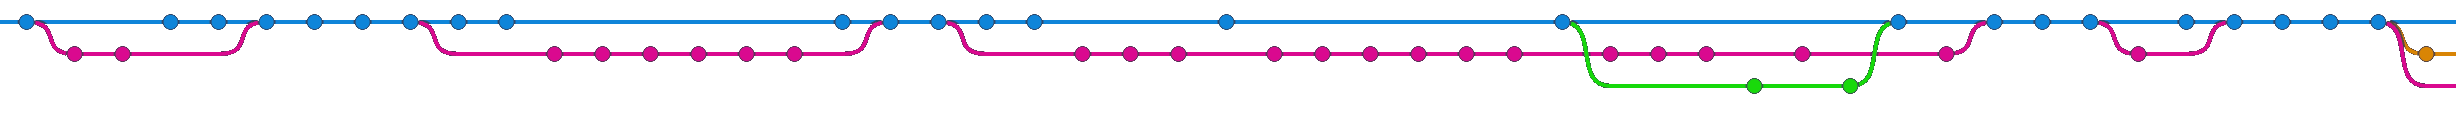
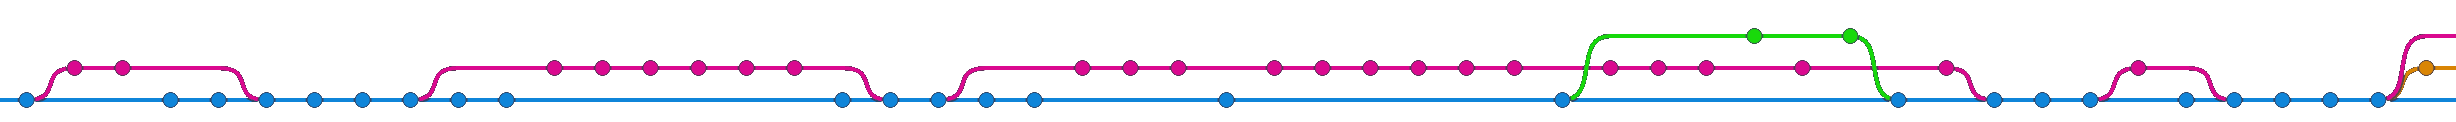
v0.32.1 - mirrored boundaries

Changed region(s): [[0.0, 0.123, 1.0, 0.8852], [0.0, 0.3689, 0.1238, 0.6148], [0.8355, 0.3934, 0.8974, 0.6148]]

diff --git a/CHANGELOG.md b/CHANGELOG.md
@@ -1,5 +1,9 @@
 # CHANGELOG minishell by nburchha & fschuber
 
+### v0.32.1 - 02.05.24 - Freddy
+- mirrored boundaries horizontally for better looks
+- removed text referencing another image for now.
+
 ## v0.32.0 - 02.05.24 - Freddy
 - Updated README with lots of content, added logo.png as the readme header, and 4 git log visualization boundaries as seperators, with a testfile.txt which is the section in the hitchhikers guide to the galaxy where 42 is first revealed.
 

diff --git a/README.md b/README.md
@@ -87,8 +87,6 @@ Very similar to how bash handles its process, our program structure looks someth
 
 `expander` -> `lexer` -> `validator` -> `parser` -> `executor`
 
-// -> lets put a cool image showing the structure here.
-
 ## Expander
 
 Starting out, we only have the input string. This may look something like this: `cat *.md | grep $USER`. Before doing anything else, we need to change the actual content of the string in a couple ways.
